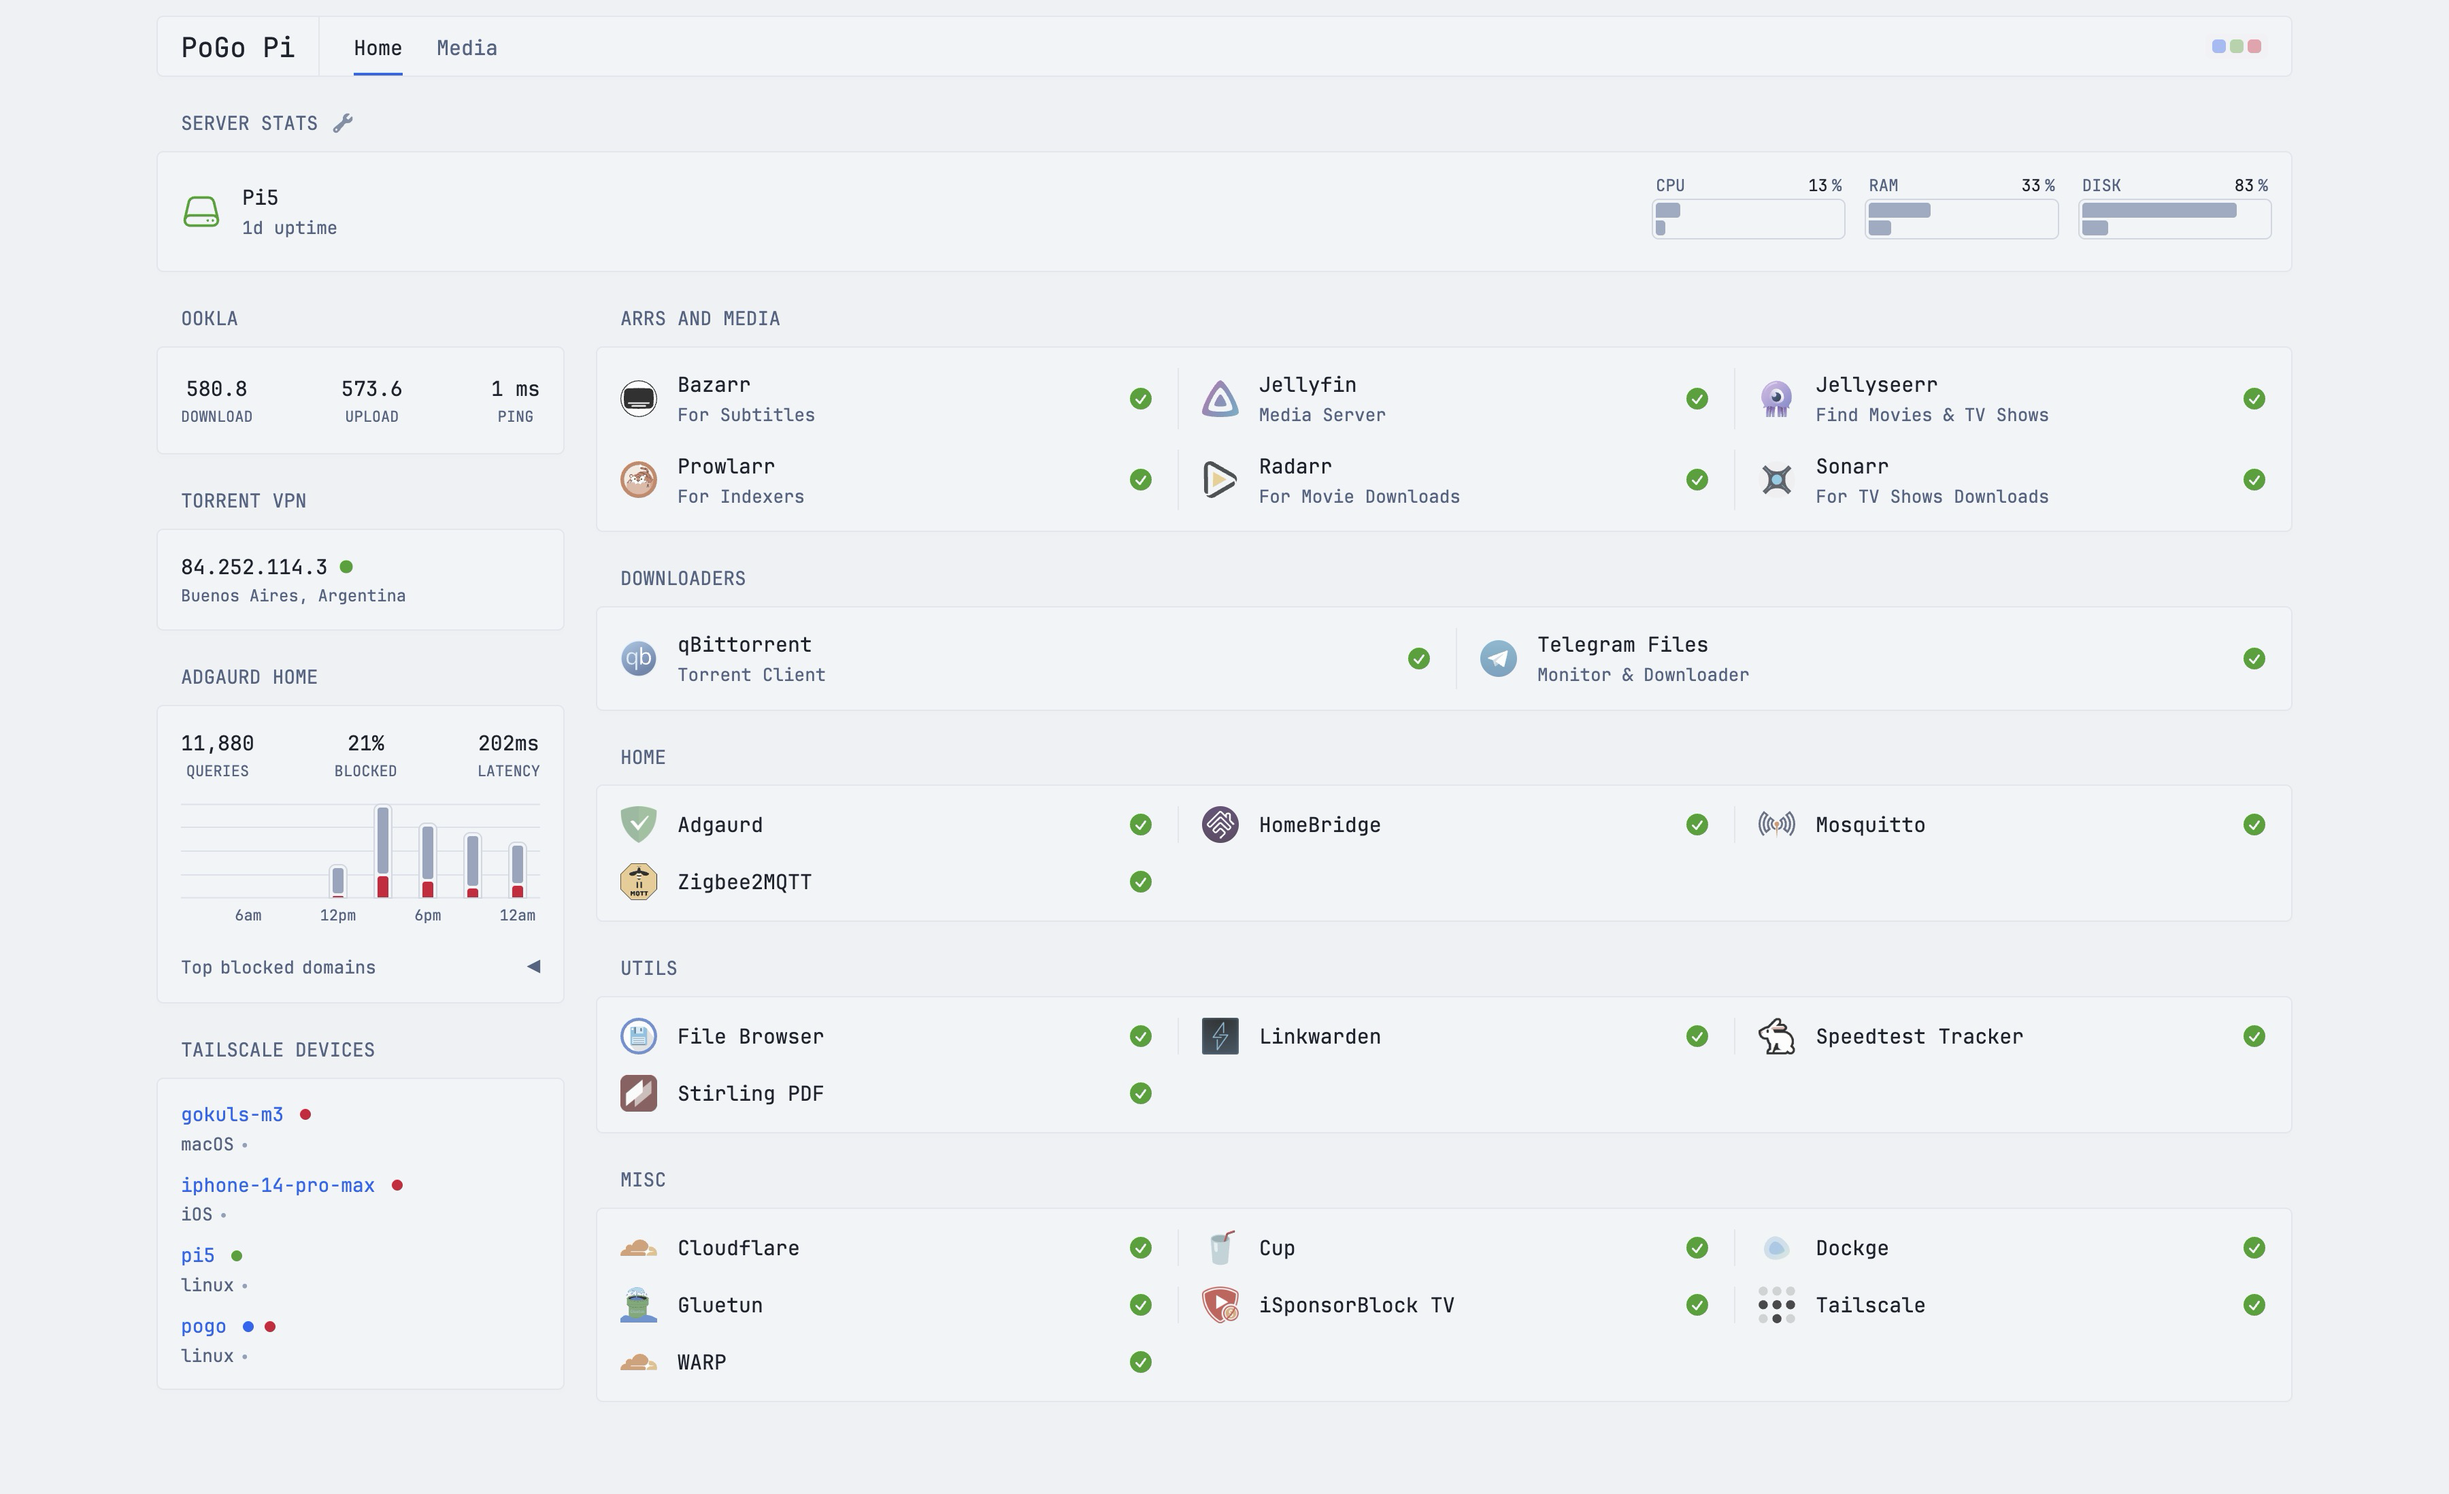
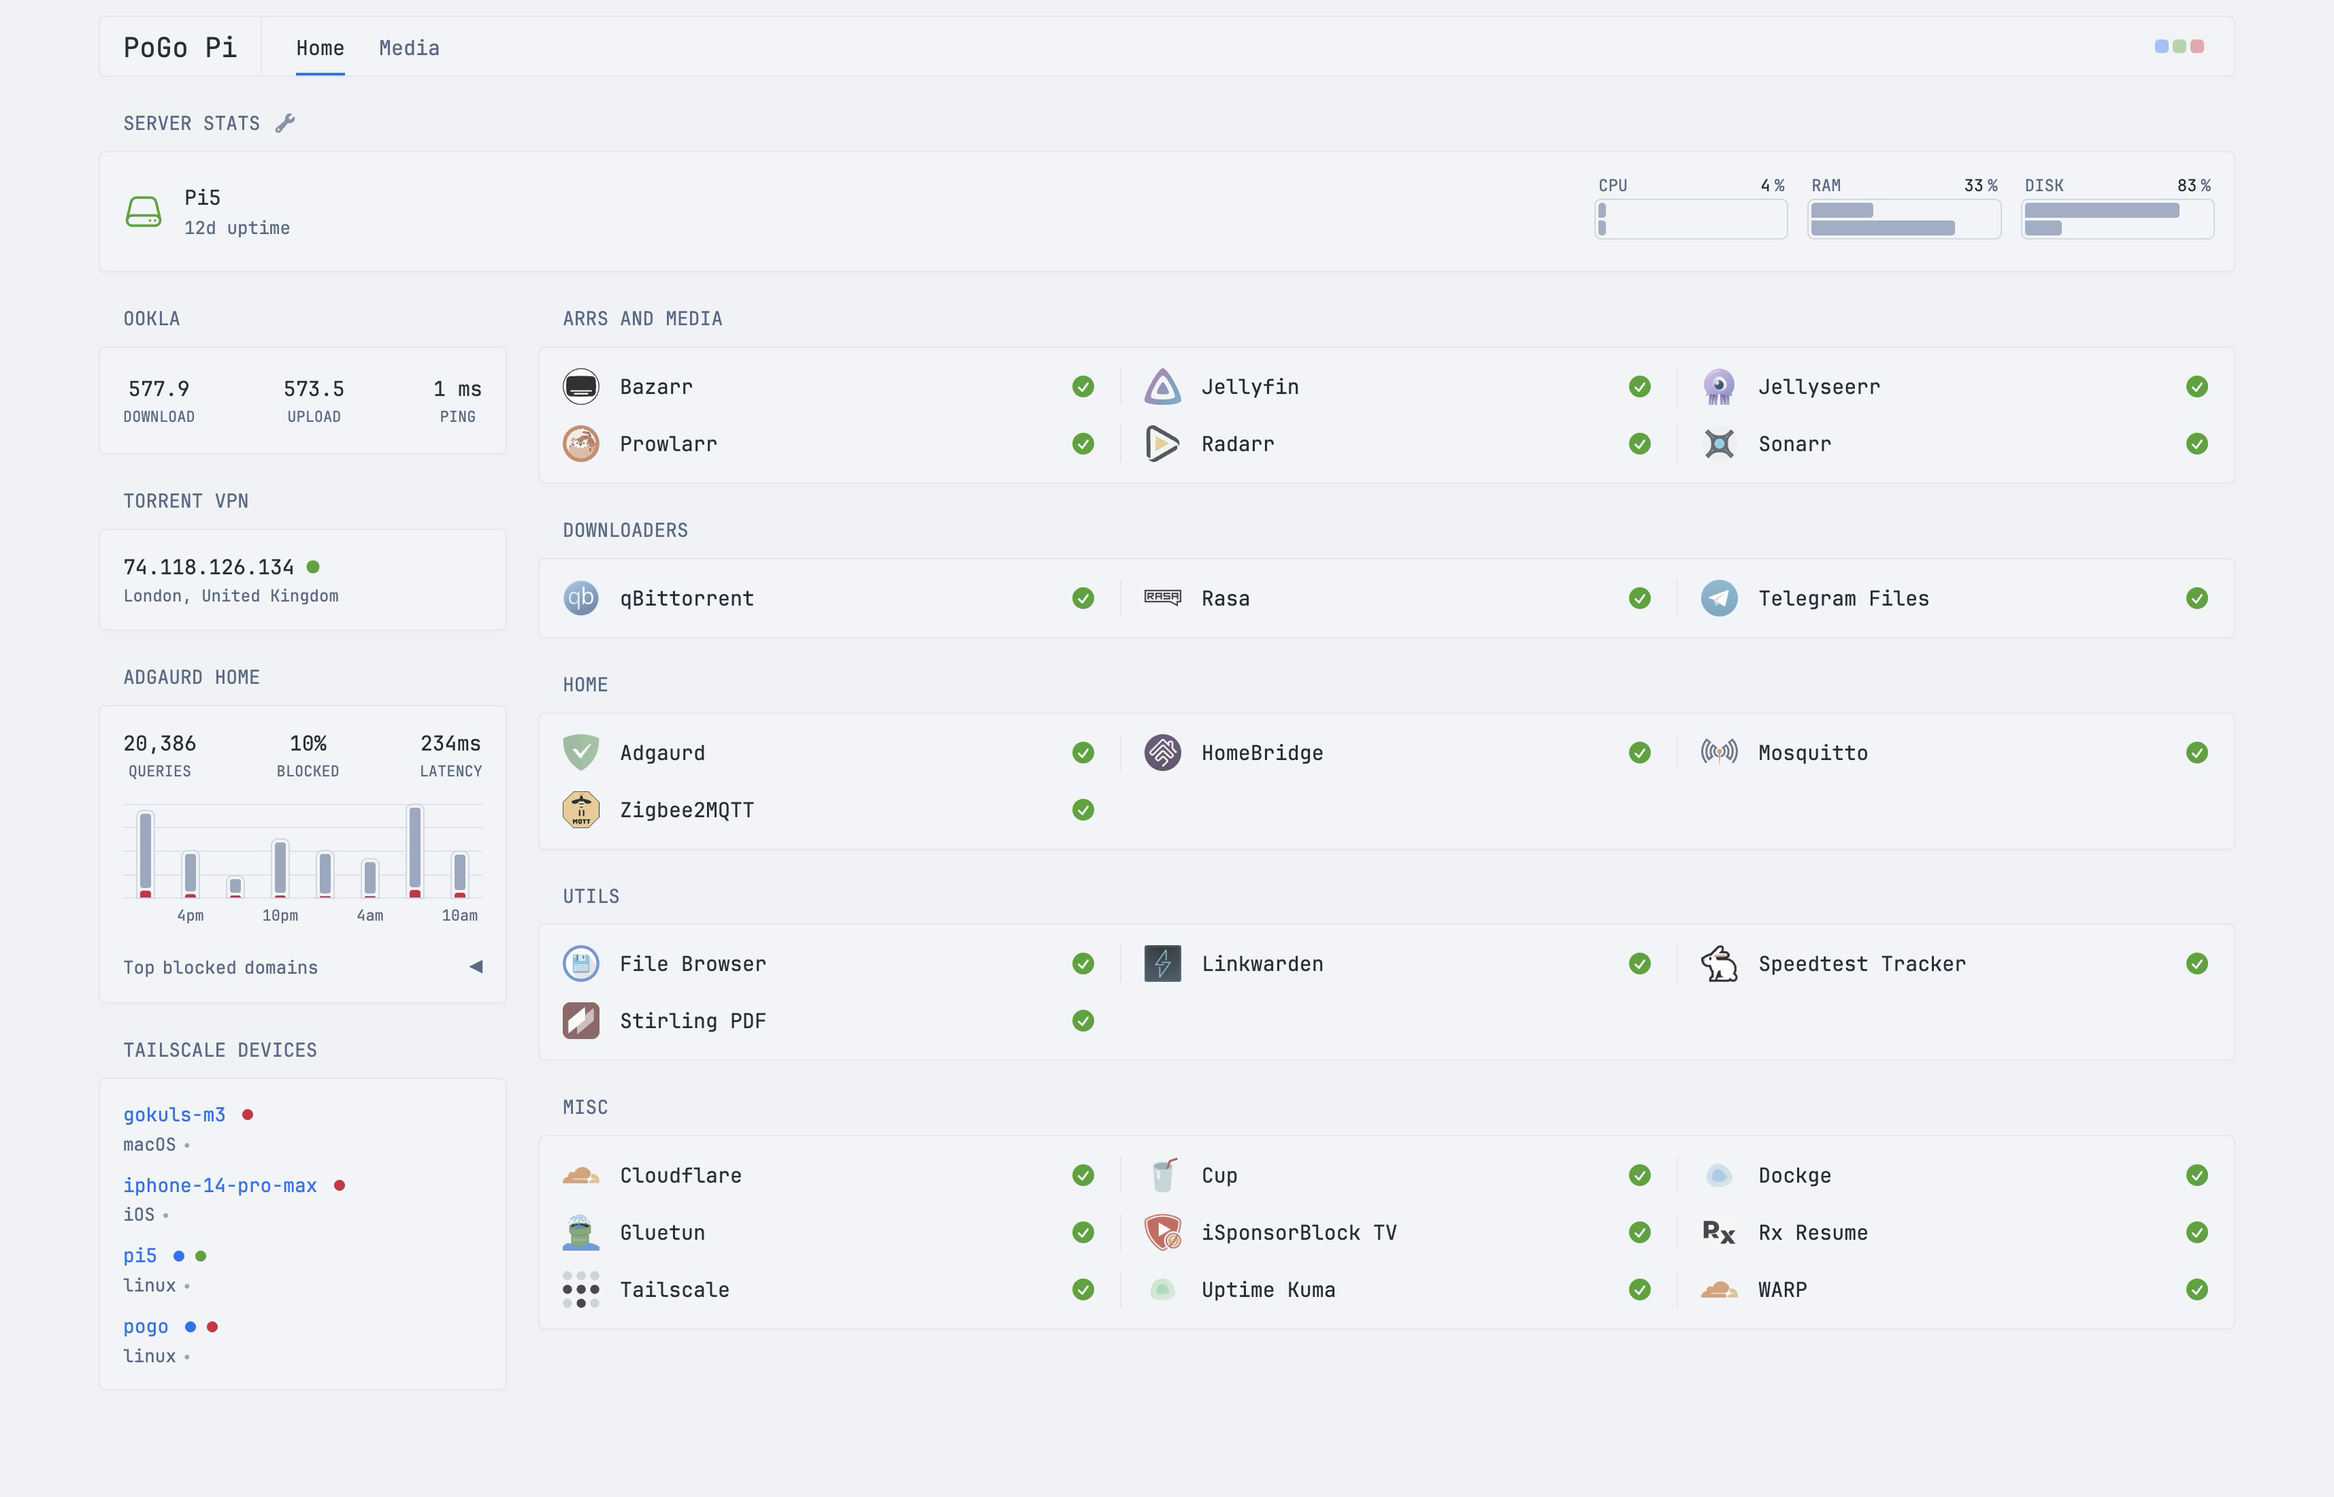
Add Rasa and Rx Resume containers to home.yml; update readme with usage note. Update home and media screenshots to reflect recent changes.

diff --git a/readme.md b/readme.md
@@ -2,6 +2,8 @@
 
 Config yml of Glance Dashboard
 
+> Remove/comment the `page` from top of file when using this.
+
 ## Home
 
 ![Home](/screenshots/home.png)
